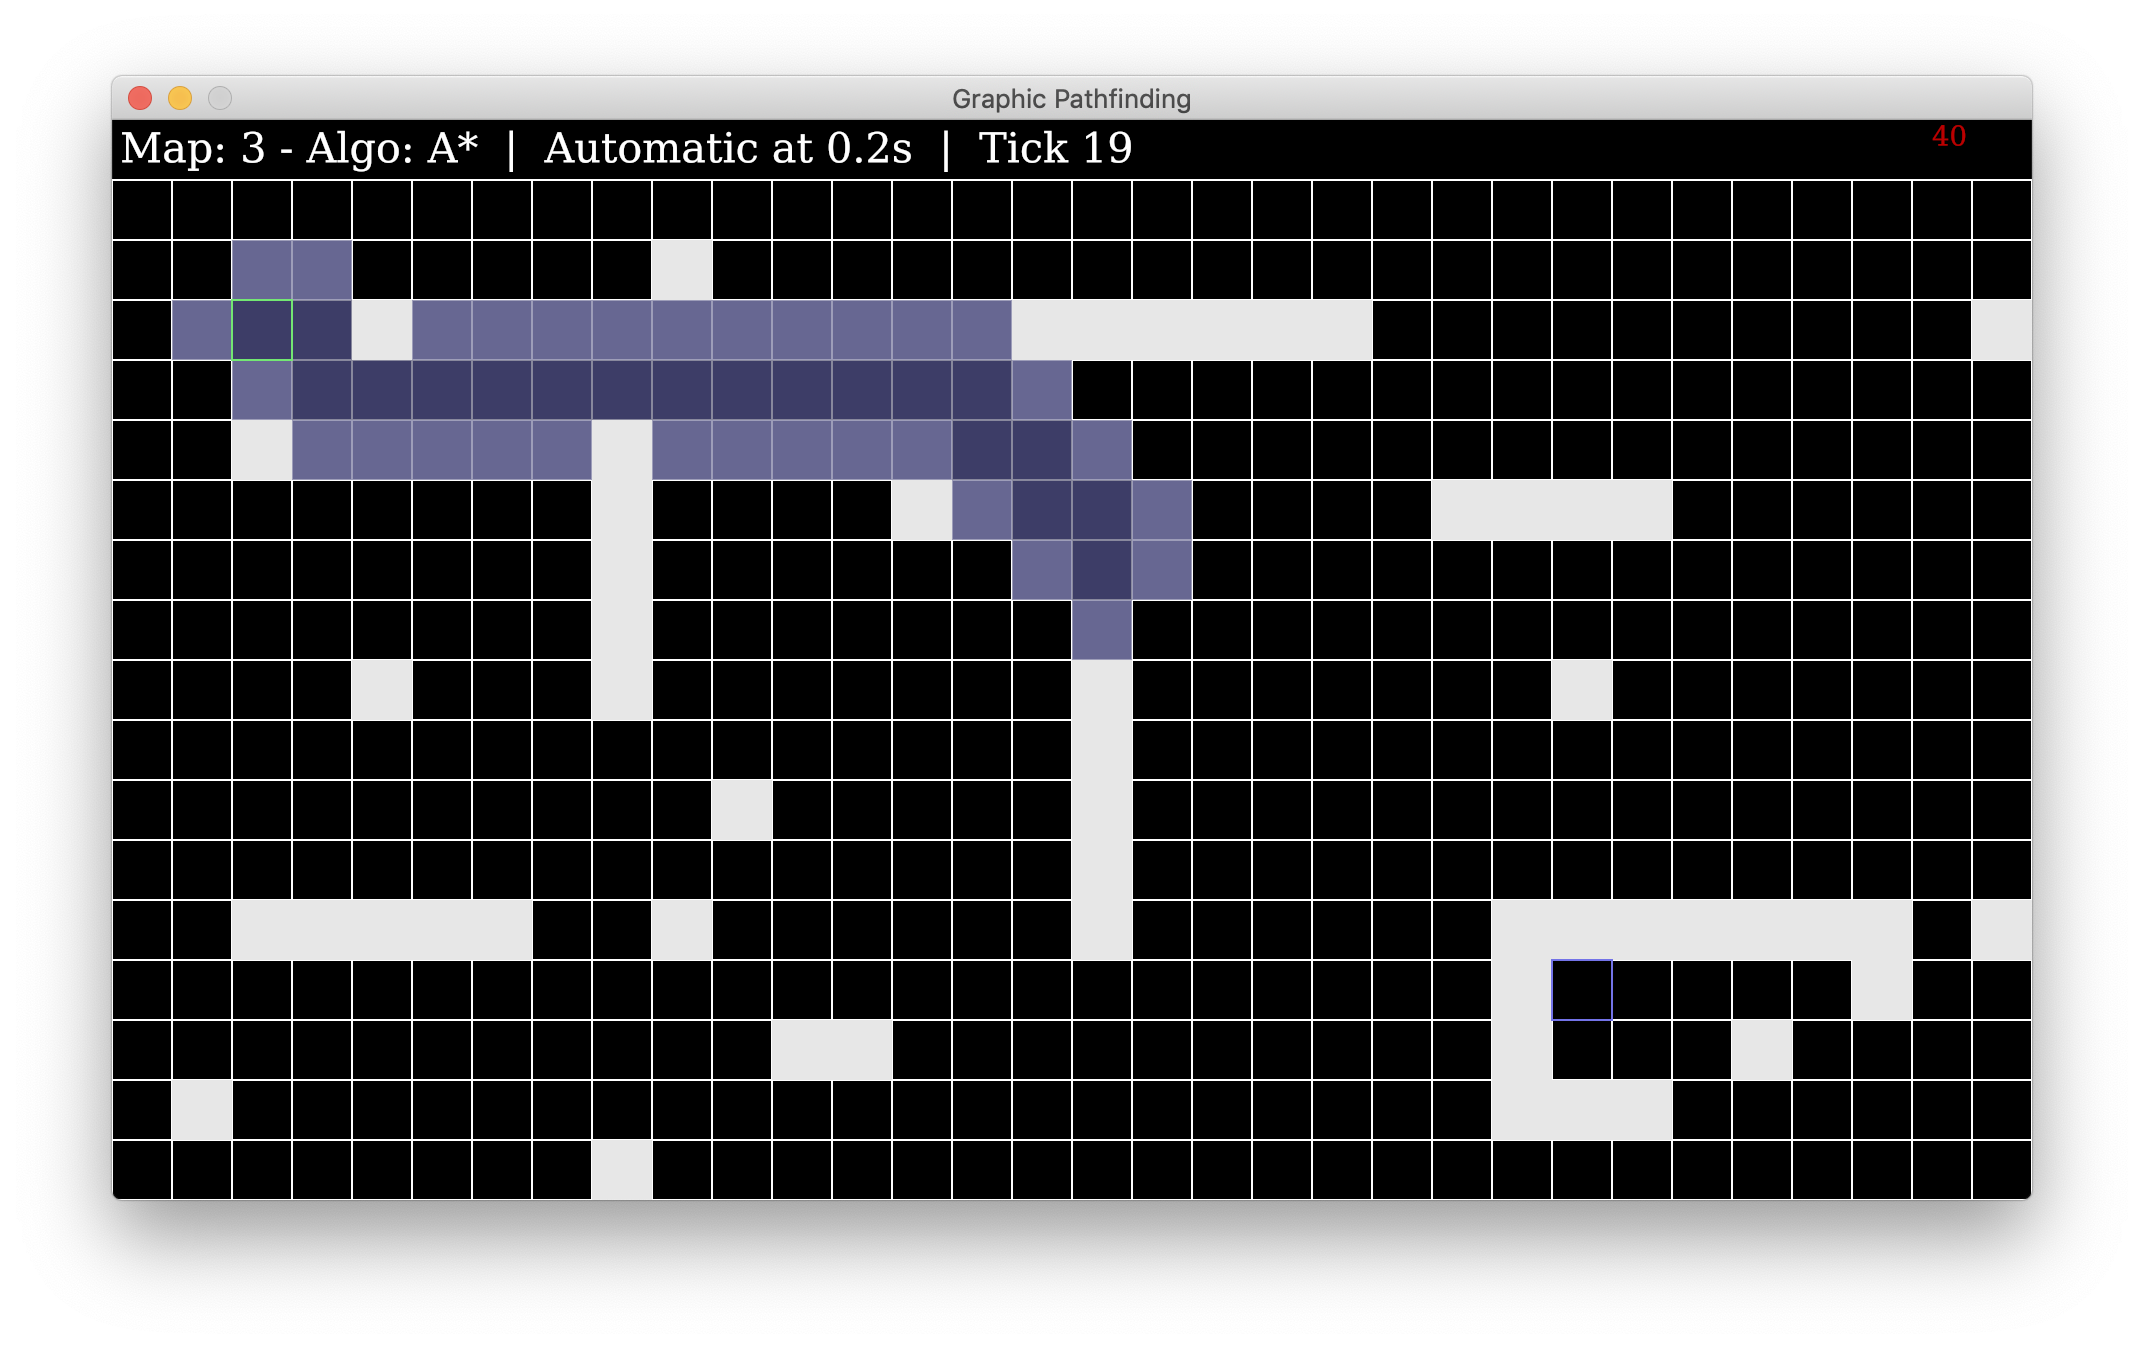
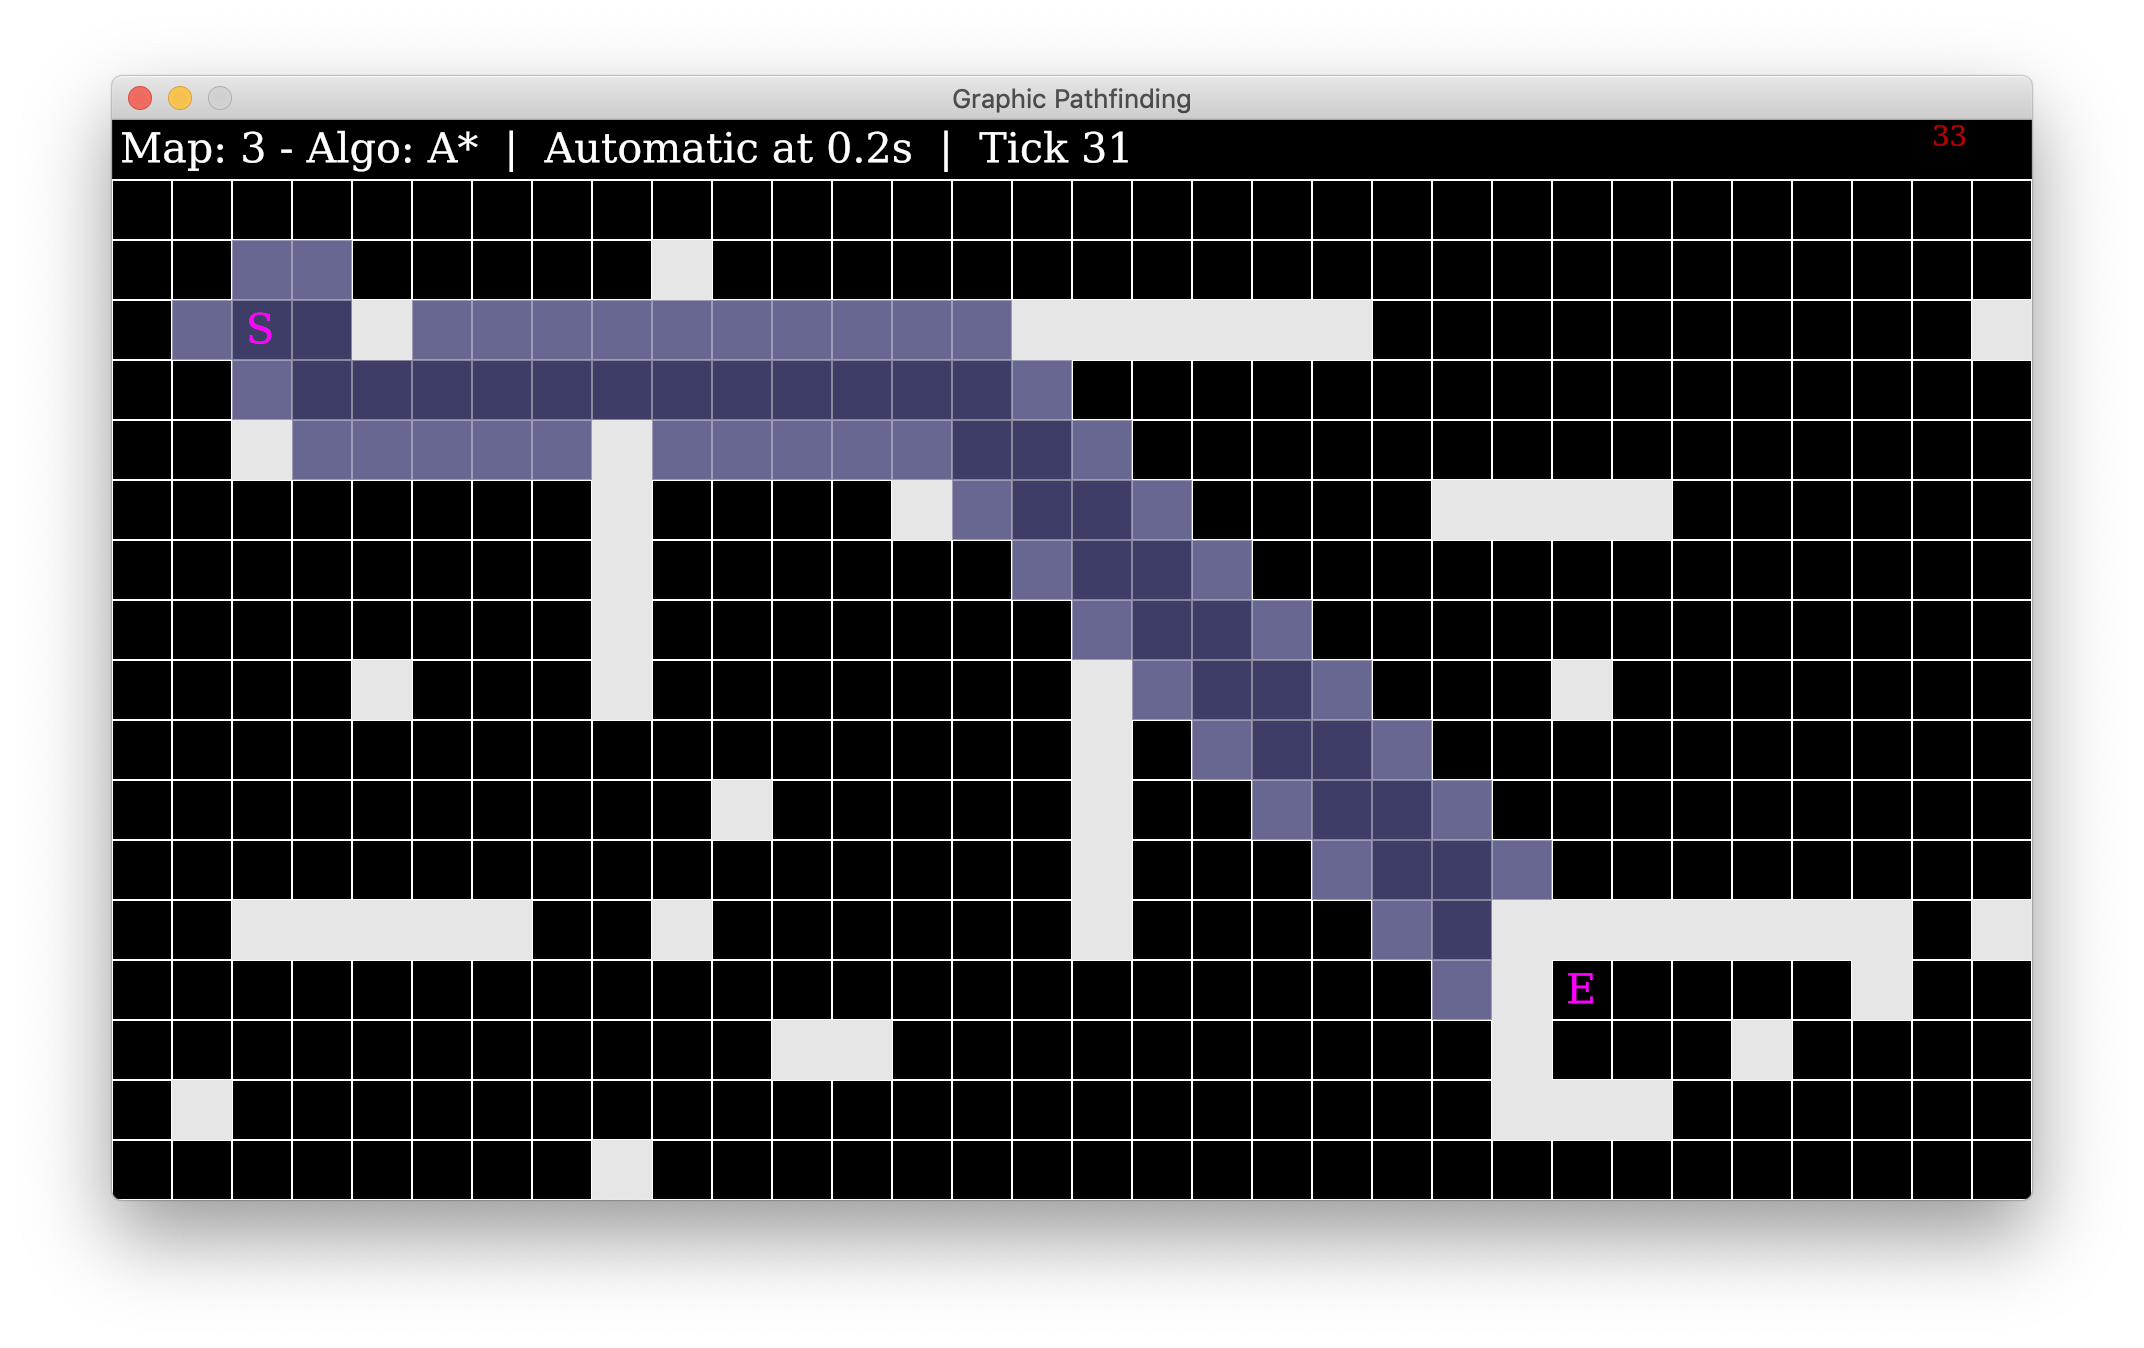
Show start and end with letters to make it more clear and add legend in readme

Changed region(s): [[0.5, 0.3739, 0.75, 0.7789], [0.5, 0.0935, 0.5312, 0.1246], [0.0938, 0.2181, 0.125, 0.2493]]

diff --git a/src/executor.rs b/src/executor.rs
@@ -55,15 +55,14 @@ impl Executor {
             AlgoStatus::NoPath => step_text = format!("Failed after {} ticks", self.ticks)
         }
         let display = format!("Map: {} - Algo: {}  |  {}  |  {} ", self.map.idx, self.algo_name, advancing_text, step_text);
-        renderer.draw_text(ctx, display, point(8., 4.));
+        renderer.draw_white_text(ctx, display, point(8., 4.));
     }
 }
 
 fn draw_start_ends(start: Coord, targets: Vec<Coord>, ctx: &mut Context, renderer: &mut Renderer) -> Result<(), GameError> {
-    let indicator_mesh = renderer.make_square_mesh(ctx, CELL_SIZE, false, 2.)?;
-    renderer.draw_coloured_mesh(ctx, indicator_mesh.as_ref(), point(GRID_START.0 + (start.x as f32 * CELL_SIZE), GRID_START.1 + (start.y as f32 * CELL_SIZE)), (0.5, 1., 0.5, 1.).into());
+    renderer.draw_text(ctx, String::from("S"), point(GRID_START.0 + (start.x as f32 * CELL_SIZE) + 14., GRID_START.1 + (start.y as f32 * CELL_SIZE) + 5.), (1.,0.,1.,1.).into());
     for target in targets {
-        renderer.draw_coloured_mesh(ctx, indicator_mesh.as_ref(), point(GRID_START.0 + (target.x as f32 * CELL_SIZE), GRID_START.1 + (target.y as f32 * CELL_SIZE)), (0.5, 0.5, 1., 1.).into());
+        renderer.draw_text(ctx, String::from("E"), point(GRID_START.0 + (target.x as f32 * CELL_SIZE) + 14., GRID_START.1 + (target.y as f32 * CELL_SIZE) + 5.), (1.,0.,1.,1.).into());
     }
     Ok(())
 }

diff --git a/src/main.rs b/src/main.rs
@@ -185,6 +185,14 @@ impl EventHandler for GPath {
     fn key_up_event(&mut self, ctx: &mut Context, keycode: KeyCode, _keymod: KeyMods) {
         match keycode {
             KeyCode::Escape | KeyCode::Q => quit(ctx),
+            KeyCode::R => {
+                let mut picker = MapPicker::new();
+                if picker.setup(ctx, &mut self.renderer.borrow_mut()).is_err() {
+                    panic!("Failed to setup map picked");
+                }
+                self.active_scene = Some(Box::new(RefCell::new(picker)));
+                self.mode = MapSelection;
+            },
             _ => {
                 if let Some(scene) = &mut self.active_scene {
                     scene.borrow_mut().on_button_press(keycode);

diff --git a/src/renderer.rs b/src/renderer.rs
@@ -71,9 +71,14 @@ impl Renderer {
         graphics::draw(ctx, mesh, (xy, new_colour)).expect("couldn't draw");
     }
 
-    pub fn draw_text(&mut self, ctx: &mut Context, text: String, position: DPPoint) {
+    pub fn draw_white_text(&mut self, ctx: &mut Context, text: String, position: DPPoint) {
+        self.draw_text(ctx, text, position, (1.,1.,1.,1.).into());
+    }
+
+    pub fn draw_text(&mut self, ctx: &mut Context, text: String, position: DPPoint, color: Color) {
         let text = Text::new(TextFragment {
             text,
+            color: Some(color),
             scale: Some(Scale::uniform(48.)),
             ..TextFragment::default()
         });

diff --git a/src/map_picker.rs b/src/map_picker.rs
@@ -104,9 +104,9 @@ impl Scene for MapPicker {
         let grid_y = y as f32 * (grid_size.1 + grid_spacing.1) + grid_offset.1;
         renderer.draw_coloured_mesh(ctx, highlight_mesh.as_ref(), point(grid_x - 2., grid_y - 2.), (0., 1., 1., 1.).into());
 
-        renderer.draw_text(ctx, self.maps[self.highlighted].info.clone(), point(grid_offset.0, 900.));
+        renderer.draw_white_text(ctx, self.maps[self.highlighted].info.clone(), point(grid_offset.0, 900.));
 
-        renderer.draw_text(ctx, String::from("Choose a map"), point(770., 200.));
+        renderer.draw_white_text(ctx, String::from("Choose a map"), point(770., 200.));
 
         Ok(())
     }

diff --git a/src/algo_picker.rs b/src/algo_picker.rs
@@ -38,10 +38,10 @@ impl Scene for AlgoPicker {
         algos.iter()
             .enumerate()
             .for_each(|(idx, algo)| {
-                renderer.draw_text(ctx, format!("{}) {}", idx, algo), point(offset.0, offset.1 + (line_height * idx as f32)));
+                renderer.draw_white_text(ctx, format!("{}) {}", idx, algo), point(offset.0, offset.1 + (line_height * idx as f32)));
             });
 
-        renderer.draw_text(ctx, String::from("Choose an algorithm"), point(48., 48.));
+        renderer.draw_white_text(ctx, String::from("Choose an algorithm"), point(48., 48.));
 
         Ok(())
     }

diff --git a/README.md b/README.md
@@ -3,8 +3,9 @@
 (Only has A* at the moment)
 
 #### Keys
-
-* **ESC** or **Q** will close the program
+* Anytime:
+  * **ESC** or **Q** close
+  * **R** reset
 * Map:
   * **Up, Down, Left, Right** to highlight map
   * **Enter/Return** to select
@@ -16,6 +17,8 @@
   * **p** toggle manual mode
   * **space** advance one tick in manual mode 
   
+
   
   
   ![Screenshot of runner screen](https://raw.githubusercontent.com/raybritton/graphical-pathfinding/master/screenshot.png)
+  ![Legend](https://raw.githubusercontent.com/raybritton/graphical-pathfinding/master/palette.png)
